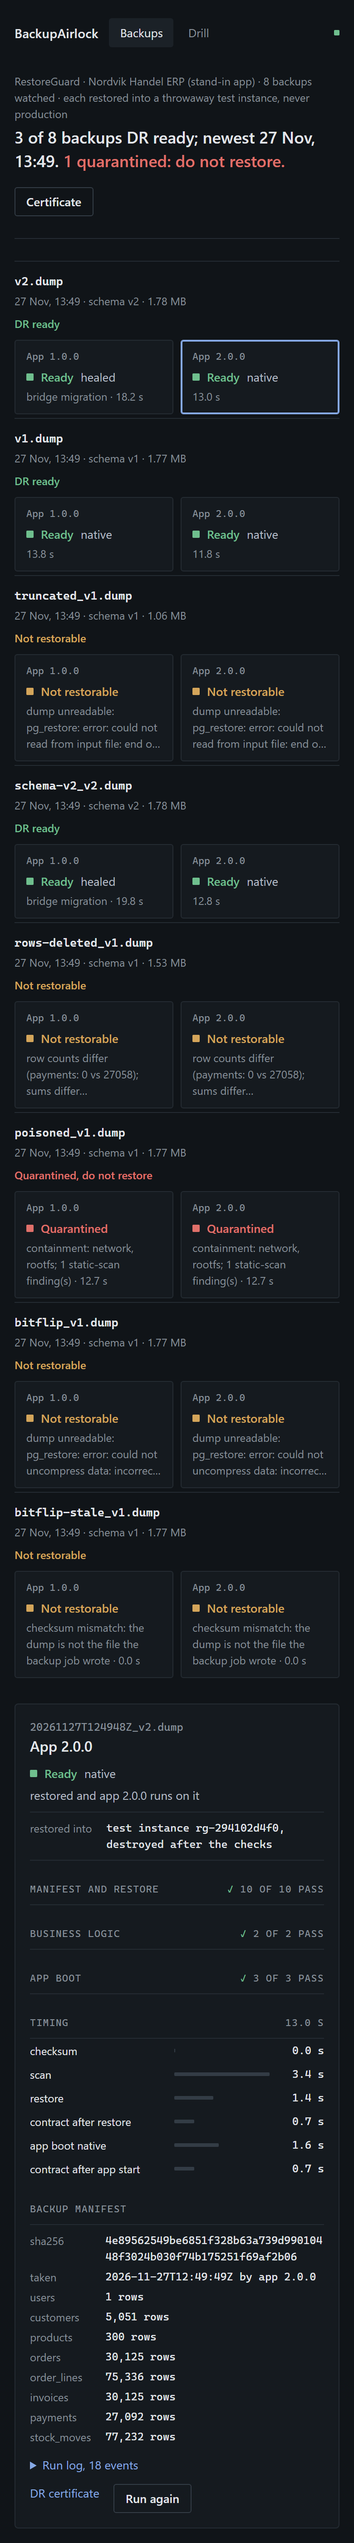
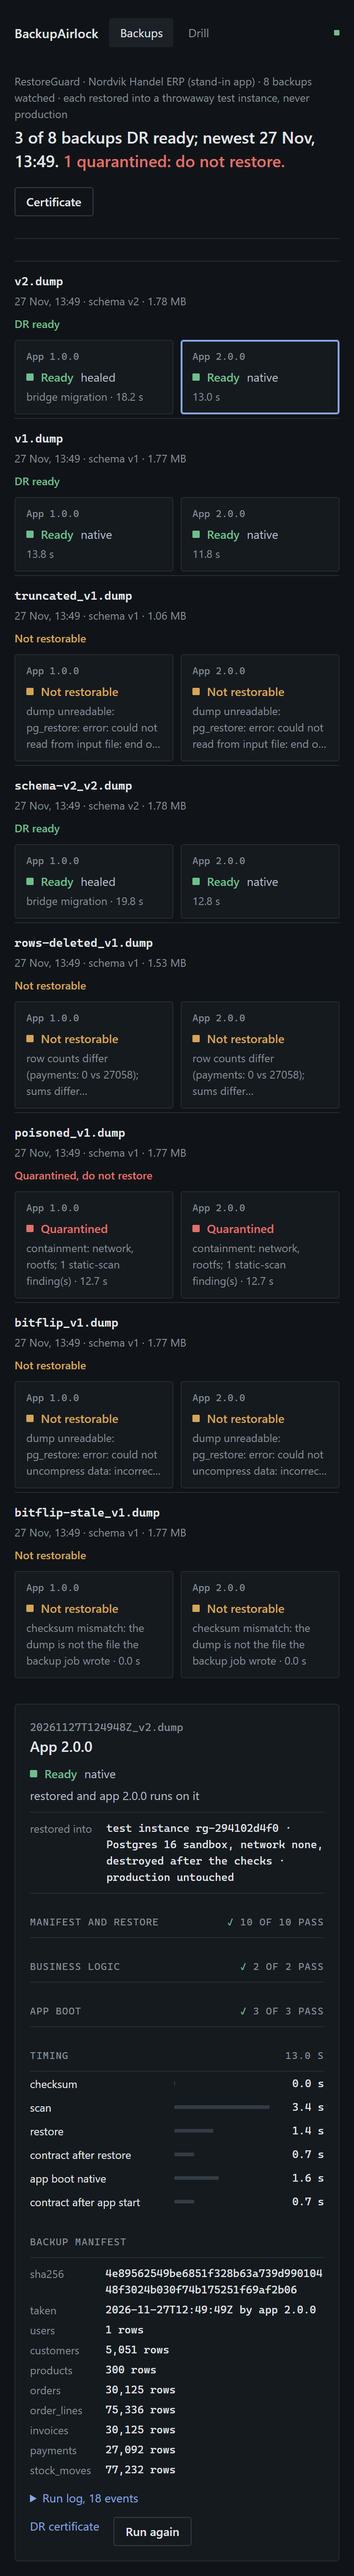
Console v4: read the runtime's restored_into (test instance, production untouched); static-scan findings as lines; shots of quarantined and failed RestoreGuard cells

diff --git a/static/index.html b/static/index.html
@@ -482,7 +482,7 @@ function containment(sigs, scan, events) {
   if (!sigs.length && !(scan || []).length) return "";
   return `<section><h3><span>Containment</span><span>${sigs.length} signals</span></h3>${pol.length ? eventRows(pol, true)
     : `<div class="rows">${sigs.map(s => `<div><span class="m no">●</span><span>${esc(s.signal)}</span><span></span></div>`).join("")}</div>`}</section>
-    ${(scan || []).length ? `<section><h3><span>Static scan of the dump</span><span>${scan.length}</span></h3><div class="code">${esc(scan.map(f => typeof f === "string" ? f : JSON.stringify(f)).join("\n"))}</div></section>` : ""}`;
+    ${(scan || []).length ? `<section><h3><span>Static scan of the dump</span><span>${scan.length}</span></h3><div class="code">${scan.map(f => typeof f === "string" ? esc(f) : `line ${esc(f.line)}  ${esc(f.text)}\n        ${esc(f.why)}`).join("\n")}</div></section>` : ""}`;
 }
 function bridgeSection(bs, llm) {
   if (!bs.length) return "";
@@ -514,7 +514,7 @@ function eventRows(evs, policy) {
 function targetLine(target, sandbox, destroyed) {
   const t = target ? [target.instance, target.database?.replace(/^.*?(Postgres[^,]*?) \S+(, .*)?$/, "$1$2")].filter(Boolean).join(" · ")
     : sandbox ? `test instance ${sandbox}` : "test instance (sandbox)";
-  return `<dl class="kv target"><dt>restored into</dt><dd>${esc(t)}${destroyed === false ? ", NOT destroyed" : destroyed ? ", destroyed after the checks" : ""}</dd></dl>`;
+  return `<dl class="kv target"><dt>restored into</dt><dd>${esc(t)}${destroyed === false ? ", NOT destroyed" : destroyed ? ", destroyed after the checks" : ""}${target?.production_touched === false ? " · production untouched" : ""}</dd></dl>`;
 }
 const policyLine = p => p ? [p.runtime, `network ${String(p.network).split(" ")[0]}`, `rootfs ${p.rootfs}`, `${p.memory} RAM`,
   `${p.cpus} CPU`, `pids ${p.pids_limit}`, `caps ${p.capabilities}`, `${p.timeout_s} s cap`].join(" · ") : "";

diff --git a/design/tools/shoot_v4.js b/design/tools/shoot_v4.js
@@ -7,6 +7,8 @@ const [base, dir] = process.argv.slice(2);
   const shots = [
     ['backups', '?view=backups', null],
     ['backups-cert', '?view=backups#cert', null],
+    ['backups-quarantined', '?view=backups', 'Quarantined'],
+    ['backups-rows-deleted', '?view=backups', 'row counts differ'],
     ['drill', '?view=drill', null],
     ['drill-healed', '?view=drill', 'healed'],
     ['drill-cert', '?view=drill#cert', null],

diff --git a/design/SPEC-CHECKLIST.md b/design/SPEC-CHECKLIST.md
@@ -26,13 +26,11 @@ Spec = BACKUPAIRLOCK-SPEC.md (teammate's), plus Jonas's 7-step plan (RESTOREGUAR
 | Sandbox flags (network none, read-only, caps, 512 MB, pids, 20 s) | Panel "Sandbox" line + certificate "Sandbox policy" | done |
 | Plain-English rule -> assertion (optional) | none | missing (not in either engine) |
 | Jonas step 5: dashboard that shows the backups | Backups tab = every watched backup, newest first, with time, schema, size, verdict | done |
-| Jonas step 7: schema change, bit flips | Shown as rows when the runtime's fault kit drops them into backups/ | waits on runtime (faults/ empty at 14:10) |
-| George 13:55: restore never into prod, target explicit | Panel line "restored into: test instance <sandbox>, destroyed after the checks"; header "each restored into a throwaway test instance, never production"; no restore-to-prod action anywhere; "(production)" column label removed | done in UI; reads `target`/`restore_target` from the runtime if it adds one, else the sandbox name |
+| Jonas step 7: schema change, bit flips | Shown as rows when the runtime's fault kit drops them into backups/ | done: the fault kit's rows (truncated, rows deleted, poisoned, bit flip, stale bit flip, schema v2) show with their reasons (shots backups-*) |
+| George 13:55: restore never into prod, target explicit | Panel line "restored into: test instance <sandbox>, destroyed after the checks"; header "each restored into a throwaway test instance, never production"; no restore-to-prod action anywhere; "(production)" column label removed | done: Backups reads the runtime's `restored_into` (instance, Postgres sandbox, `production_touched: false` -> "production untouched"); Drill names the sandbox that held the test instance |
 | Rerun a backup | Backups panel "Run again" (POST rerun via proxy) | done |
 | Phone layout | <=900 px: matrix stacks per backup, two cells side by side with the app name in each cell, panel below and scrolled to on tap; certificate table as stacked rows; no horizontal scroll at 390 | done |
 
 API changes I would ask the runtime for (not made; its code is not mine):
-- `target` per cell, e.g. `"test instance rg-xxxx (app 2.0.0, own DB, no network)"`, so the UI needs no sandbox-name inference.
 - `sha256` in `/api/backups` summaries (now only in the detail).
 - An incident endpoint for quarantined backups (the drill has `/incident.json`).
-- A systemd unit: the runtime listens on 127.0.0.1:8600 as a plain process; if it stops, the Backups tab says "RestoreGuard runtime unavailable".
